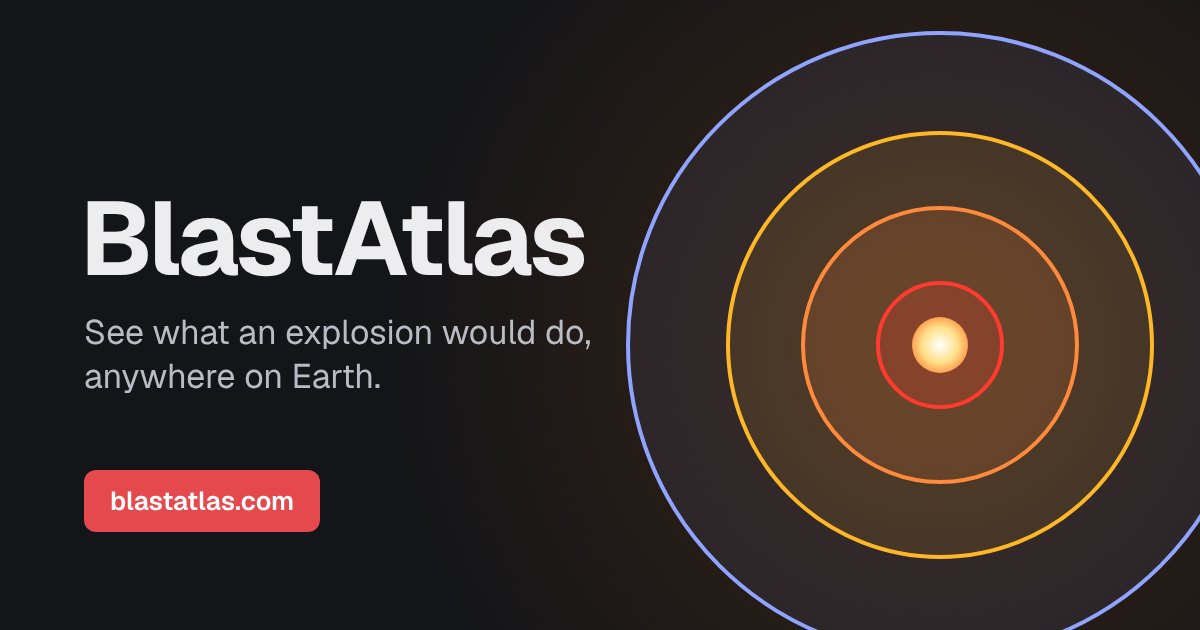
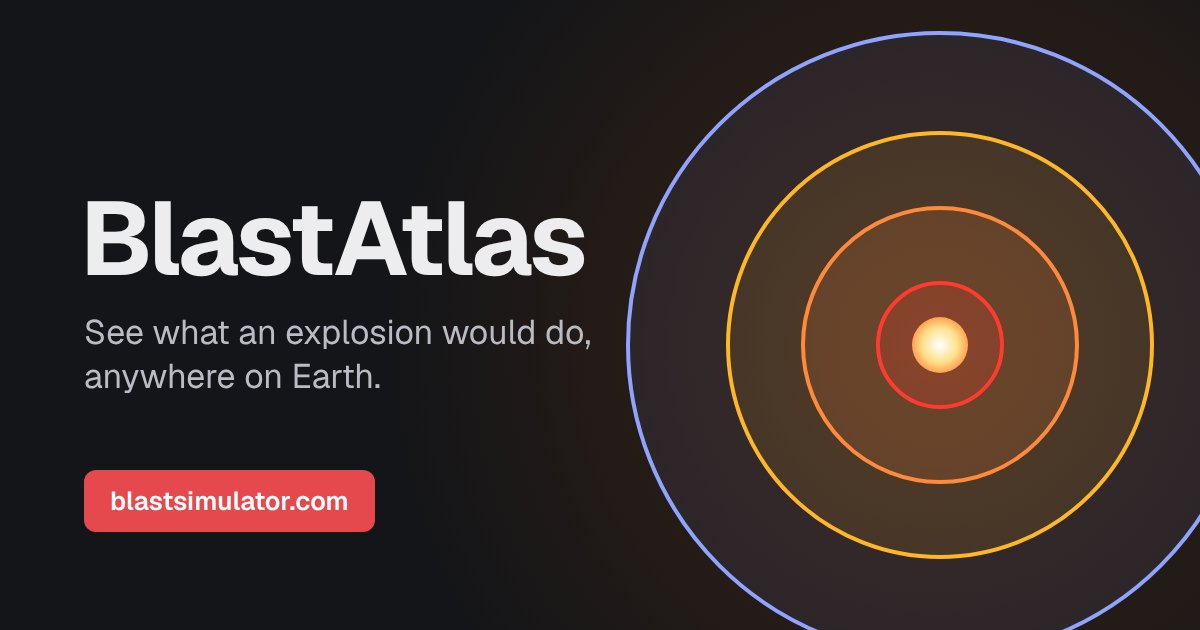
Domain auf blastsimulator.com umgestellt (Canonical, Sitemap, robots.txt, Vorschaubild)
Claude-Session: https://claude.ai/code/session_014efZHLCmtUzEuN8A11ogkr

Changed region(s): [[0.1233, 0.7238, 0.3392, 0.8444]]

diff --git a/index.html b/index.html
@@ -8,15 +8,15 @@
 <meta property="og:type" content="website">
 <meta property="og:title" content="BlastAtlas">
 <meta property="og:description" content="Pick a weapon and a place and see what an explosion there would do.">
-<meta property="og:url" content="https://blastatlas.com/">
-<meta property="og:image" content="https://blastatlas.com/og.jpg">
+<meta property="og:url" content="https://blastsimulator.com/">
+<meta property="og:image" content="https://blastsimulator.com/og.jpg">
 <meta property="og:image:width" content="1200">
 <meta property="og:image:height" content="630">
 <meta name="twitter:card" content="summary_large_image">
-<link rel="canonical" href="https://blastatlas.com/">
+<link rel="canonical" href="https://blastsimulator.com/">
 <link rel="icon" href="favicon.svg" type="image/svg+xml">
 <meta name="theme-color" content="#0b0c0e">
-<script type="application/ld+json">{"@context":"https://schema.org","@type":"WebApplication","name":"BlastAtlas","url":"https://blastatlas.com/","applicationCategory":"EducationalApplication","operatingSystem":"Any","description":"Interactive blast map showing effect zones, explosion and estimated casualties of nuclear weapons, conventional bombs and fictional scenarios.","offers":{"@type":"Offer","price":"0","priceCurrency":"USD"}}</script>
+<script type="application/ld+json">{"@context":"https://schema.org","@type":"WebApplication","name":"BlastAtlas","url":"https://blastsimulator.com/","applicationCategory":"EducationalApplication","operatingSystem":"Any","description":"Interactive blast map showing effect zones, explosion and estimated casualties of nuclear weapons, conventional bombs and fictional scenarios.","offers":{"@type":"Offer","price":"0","priceCurrency":"USD"}}</script>
 <link href="vendor/maplibre-gl-5.24.0/maplibre-gl.css" rel="stylesheet">
 <style>
 /* Schriften lokal (SIL Open Font License, siehe fonts/OFL-Geist.txt) – kein Abruf bei Google */
